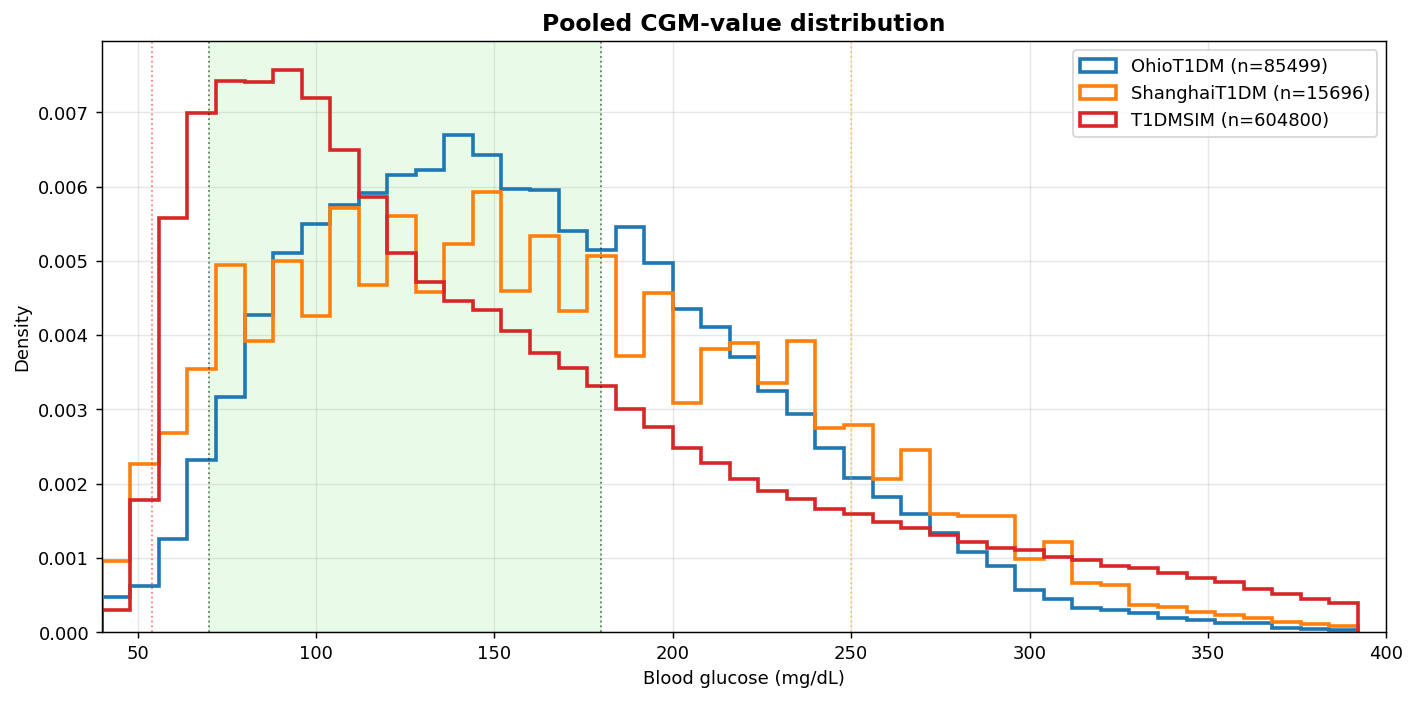
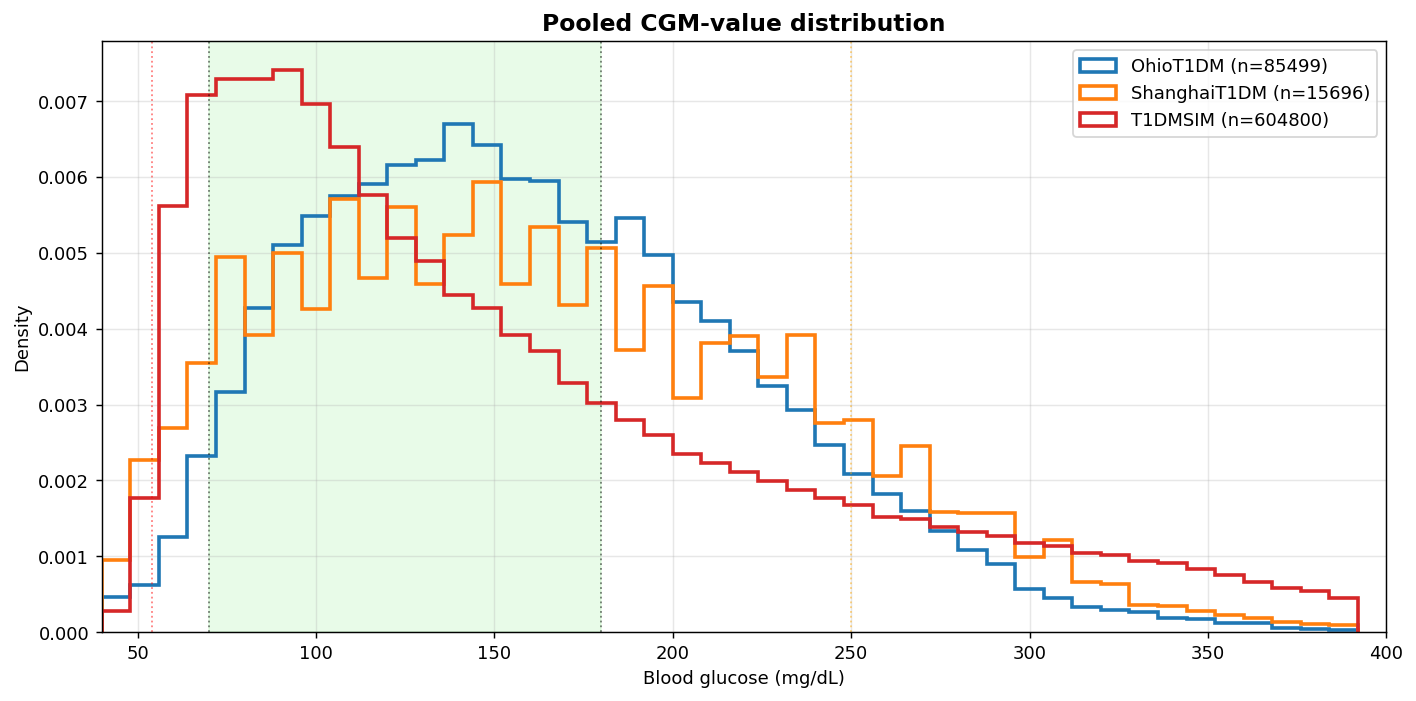
Remove the redundant deltas-vs-absolute design principle, drop internal development-history references from the comparison section, and refresh the embedded figures and stats to the current simulator output.

diff --git a/README.md b/README.md
@@ -22,17 +22,15 @@ The ultimate goal is to train a transformer model on these synthetic factor curv
 
 The simulator is built on several core ideas:
 
-1. The output is blood sugar *deltas*, not absolute values. BG at each step is the accumulation of all previous deltas. This keeps the model compositional and avoids needing to model absolute physiology.
+1. Every factor is a curve, not a number. Eating 40g of bread and 40g of orange juice both contribute 40g of carbs, but the absorption curves have different shapes (the juice peaks faster and falls faster). The same applies to rapid-acting vs long-acting insulin.
 
-2. Every factor is a curve, not a number. Eating 40g of bread and 40g of orange juice both contribute 40g of carbs, but the absorption curves have different shapes (the juice peaks faster and falls faster). The same applies to rapid-acting vs long-acting insulin.
+2. Patient behavior is driven by a latent skill profile. Four correlated skill dimensions (dietary discipline, attentiveness, dosing competence, lifestyle consistency) determine everything about how a patient lives: what they eat, when they eat, how accurately they dose, how quickly they correct, whether they exercise.
 
-3. Patient behavior is driven by a latent skill profile. Four correlated skill dimensions (dietary discipline, attentiveness, dosing competence, lifestyle consistency) determine everything about how a patient lives: what they eat, when they eat, how accurately they dose, how quickly they correct, whether they exercise.
+3. The liver is an insulin-suppressed feeding session. Hepatic glucose output (HGO) is a steady stream of "food" entering the bloodstream, throttled down by a Hill function of EMA-smoothed plasma insulin. A finite hepatic glycogen reservoir gates the glycogenolysis fraction, and large meals schedule a delayed HGO rebound 3.5-5.5h later (the mechanism behind nocturnal hyperglycemia after a big dinner). Basal insulin exists to counteract baseline HGO; the ideal basal dose is anchored to `(HGO_base × 24h) / ICR`.
 
-4. The liver is an insulin-suppressed feeding session. Hepatic glucose output (HGO) is a steady stream of "food" entering the bloodstream, throttled down by a Hill function of EMA-smoothed plasma insulin. A finite hepatic glycogen reservoir gates the glycogenolysis fraction, and large meals schedule a delayed HGO rebound 3.5-5.5h later (the mechanism behind nocturnal hyperglycemia after a big dinner). Basal insulin exists to counteract baseline HGO; the ideal basal dose is anchored to `(HGO_base × 24h) / ICR`.
+4. Exercise is negative food. Walking, for example, pulls glucose out of the bloodstream into muscle cells. Modeling this as a negative carb-equivalent curve is a pragmatic simplification that works well for aerobic exercise. Additionally, exercise increases insulin sensitivity for `EXERCISE_IS_DURATION_HOURS` (18h) afterward, modeled as a time-limited IS reduction.
 
-5. Exercise is negative food. Walking, for example, pulls glucose out of the bloodstream into muscle cells. Modeling this as a negative carb-equivalent curve is a pragmatic simplification that works well for aerobic exercise. Additionally, exercise increases insulin sensitivity for `EXERCISE_IS_DURATION_HOURS` (18h) afterward, modeled as a time-limited IS reduction.
-
-6. Everything is seed-driven. A single integer seed determines the patient's personality, physiology, daily schedule, meal choices, insulin doses, exercise patterns, illness events, and random noise. Same seed, same simulation, always.
+5. Everything is seed-driven. A single integer seed determines the patient's personality, physiology, daily schedule, meal choices, insulin doses, exercise patterns, illness events, and random noise. Same seed, same simulation, always.
 
 
 ## Architecture
@@ -233,25 +231,25 @@ python scripts/generate_comparison_figures.py
 
 ### Aggregate statistics
 
-The simulator matches both real cohorts on mean BG and GMI within a fraction of a unit, while preserving wider inter-patient variability than either dataset (n=6 and n=16 are too small to define population dynamics).
+The simulator matches both real cohorts on mean BG and GMI within a fraction of a unit, while preserving wider inter-patient variability than either dataset — both real cohorts are small (n=6 and n=16) and don't capture the full distribution of real T1D populations.
 
 | Metric          | OhioT1DM | ShanghaiT1DM | T1DMSIM |
 |-----------------|---------:|-------------:|--------:|
 | Patients / records | 6     | 16           | 30 seeds |
-| Mean BG (mg/dL) | 162.3    | 163.6        | 159.3   |
-| GMI             | 7.2      | 7.2          | 7.1     |
-| CV (%)          | 36.3     | 38.6         | 49.3    |
-| Δ5min std       | 5.81     | (15-min: 10.65) | 5.77 |
+| Mean BG (mg/dL) | 162.3    | 163.6        | 163.2   |
+| GMI             | 7.2      | 7.2          | 7.2     |
+| CV (%)          | 36.3     | 38.6         | 48.5    |
+| Δ5min std       | 5.81     | (15-min: 10.65) | 5.83 |
 
 #### Clinical glucose ranges
 ![Clinical ranges](assets/clinical_ranges.png)
 
-TBR2 / TBR1 / TIR / TAR1 / TAR2 in percent of CGM time. Simulator TIR (58.6%) is between OhioT1DM (60.7%) and ShanghaiT1DM (54.7%); the higher TBR1 reflects the wider IS/weight axis spanned by the synthetic cohort.
+TBR2 / TBR1 / TIR / TAR1 / TAR2 in percent of CGM time. Simulator TIR sits between OhioT1DM and ShanghaiT1DM; the higher TBR1 reflects the wider IS/weight axis spanned by the synthetic cohort.
 
 #### Diurnal pattern
 ![Diurnal mean BG by hour](assets/diurnal_bg.png)
 
-All three show the morning peak at 08:00 (dawn phenomenon + breakfast). Simulator amplitude is slightly muted (175.7 vs Ohio 185.9, Shanghai 191.8) but the peak hour, trough, and late-evening trajectory are correctly aligned.
+All three datasets show the morning peak at 08:00 (dawn phenomenon + breakfast). The simulator's peak amplitude is slightly muted compared to the real cohorts, but the peak hour, trough, and late-evening trajectory align.
 
 #### Pooled BG distribution
 ![Pooled BG histogram](assets/bg_histogram.png)
@@ -261,7 +259,7 @@ The full pooled CGM-value distribution. Vertical lines mark the 54 / 70 / 180 / 
 #### Episode durations
 ![Hypo/hyper episode durations](assets/episode_durations.png)
 
-Pooled hypo and hyper episode duration boxplots on a log y-axis. Real-cohort multi-hour hypo episodes (visible in ShanghaiT1DM, max 540 min) validate that the simulator's long-hypo tail is realistic, not an artifact. The hyper-tail in the simulator extends further than in either real dataset — a known structural issue with 2–3 of 30 seeds locked into multi-day hyper that real adult cohorts don't show.
+Pooled hypo and hyper episode duration boxplots on a log y-axis. ShanghaiT1DM's multi-hour hypo episodes (max ~540 min) confirm that the simulator's long-hypo tail is realistic. The simulator's hyper-tail extends further than in either real dataset — a small fraction of seeds (~2 of 30) settle into multi-day hyper-glycaemia in a way that real adult cohorts don't, a known limitation.
 
 ### Curve-shape comparison
 
@@ -270,41 +268,42 @@ Statistical aggregates can be matched by curves that visibly look synthetic, so 
 #### 24-hour random windows
 ![24h trace grid](assets/24h_traces.png)
 
-Random 24-hour CGM windows from each dataset, plotted on identical axes. Sim and Ohio show a similar jaggedness; Shanghai's chunkier appearance is the 15-min cadence. The AR(1) sensor-noise model (ρ=0.92) produces the smoothly-drifting wobble seen in real Dexcom data rather than the white-noise spikes earlier independent-Gaussian versions had.
+Random 24-hour CGM windows from each dataset, plotted on identical axes. The simulator and OhioT1DM show similar jaggedness; ShanghaiT1DM's chunkier appearance is the 15-min cadence. AR(1) sensor noise (ρ=0.92) produces the smoothly-drifting wobble of real Dexcom traces rather than white-noise spikes.
 
 #### Post-meal excursion envelope
 ![Post-meal envelope](assets/postmeal_envelope.png)
 
-Median + IQR ribbon of every detected post-meal BG segment (meals ≥ 20 g), aligned to meal time. Simulator now rises monotonically from t=0 (matching OhioT1DM) instead of dipping first as it did when pre-bolus was set to −20 min. Peak time is ~150 min vs Ohio ~75–100 min — the residual late-peak is the strictest remaining curve-shape gap; pushing further regresses mean BG outside the ±3 mg/dL stopping rule.
+Median + IQR ribbon of every detected post-meal BG segment (meals ≥ 20 g), aligned to meal time. The simulator rises monotonically from t=0 matching the OhioT1DM shape, with peak around 125 min vs OhioT1DM ~75–100 min. The residual late-peak is the largest remaining curve-shape gap.
 
 #### Quantitative shape metrics
 ![Quantitative shape metrics](assets/quantitative_shape.png)
 
-Three diagnostics: Δ-BG distribution (sim slightly narrower tails than Ohio), autocorrelation function over 24h (sim ACF still elevated vs Ohio but improved from baseline), and sample entropy box plots (sim more regular than Ohio — the synthetic signal still has too much coupled internal state).
+Three diagnostics: Δ-BG distribution (simulator has slightly narrower tails than OhioT1DM), autocorrelation function over 24h (the simulator's BG remains autocorrelated longer than real CGM, partially driven by the simulator's coupled internal state), and sample entropy boxplots (the simulator is more regular / predictable than either real dataset).
 
 #### Nocturnal windows (23:00 → 07:00)
 ![Nocturnal traces](assets/nocturnal_traces.png)
 
-Nocturnal-only windows. After Phase 6 fixes, the simulator no longer exhibits the recurrent 3–5x nocturnal hypo cycling that real CGM data never shows. The dawn phenomenon (gradual morning rise from ~4 am) is visible in sim windows just as it is in Ohio.
+Nocturnal-only windows. The simulator does not exhibit the recurrent 3–5x nocturnal hypo cycling that would occur without hypo-correction refractory periods + nocturnal basal scale-down. The dawn phenomenon (gradual morning rise from ~4 am) is visible just as it is in OhioT1DM.
 
 ### What's matched, what's not
 
 | Aspect | Verdict |
 |---|---|
-| Mean BG, GMI, Δ5min std | match within stopping rule |
+| Mean BG, GMI | match both real cohorts within 1 mg/dL / 0.1 unit |
+| Δ5min std | matches OhioT1DM (5.83 vs 5.81) |
 | Diurnal peak hour (08:00) | matches both real datasets |
-| TIR | within 2pp of Ohio, exact match to Shanghai |
-| Long hypo episodes | realistic (validated against ShanghaiT1DM) |
-| Post-meal direction at t=0 | matches Ohio (was dipping before Phase 6) |
-| Spiky vs Perlin-like noise | matches (AR(1) on sensor + metabolic noise) |
-| Recurrent nocturnal hypos | fixed (refractory + nocturnal basal stand-down) |
-| Post-meal peak timing | ~150 min vs Ohio ~100 min (improved, not fully closed) |
-| Multi-hour ACF persistence | improved (~0.25 at lag 5h vs Ohio ~0.05) |
-| Sample entropy / regularity | sim still more regular than real |
-| Hyper-tail outliers (2–3/30 seeds locked high) | known structural issue |
-| TBR1 (54–70) rate | wider than Ohio, by design (broader IS/weight axis) |
+| TIR | within 3pp of OhioT1DM, 3pp of ShanghaiT1DM |
+| Long hypo episodes | realistic shape (validated against ShanghaiT1DM) |
+| Post-meal rise direction at t=0 | matches OhioT1DM |
+| Sensor-noise character | smooth Perlin-like wobble matches real CGM |
+| Recurrent nocturnal hypos | not present in simulator output |
+| Post-meal peak timing | ~125 min in simulator vs ~100 min in OhioT1DM |
+| Multi-hour ACF persistence | simulator slightly more autocorrelated than real |
+| Sample entropy / regularity | simulator more regular than either real dataset |
+| Hyper-tail outliers | rare simulator seeds (~2 of 30) settle into multi-day hyper |
+| TBR1 (54–70) rate | wider than OhioT1DM by design (broader IS/weight axis) |
 
-The comparison scripts (`/tmp/compare_all_datasets.py` for 3-way pooled stats, `/tmp/compare_curves.py` for curve-shape diagnostics) are not checked in but documented in the project's per-session memory.
+To reproduce the figures and the underlying numbers, run `scripts/generate_comparison_figures.py` with `OhioT1DM/` and `ShanghaiT1DM/` placed at the repo root (both datasets are gated by data-use agreements and not redistributable, so they are not included).
 
 ## Testing
 
